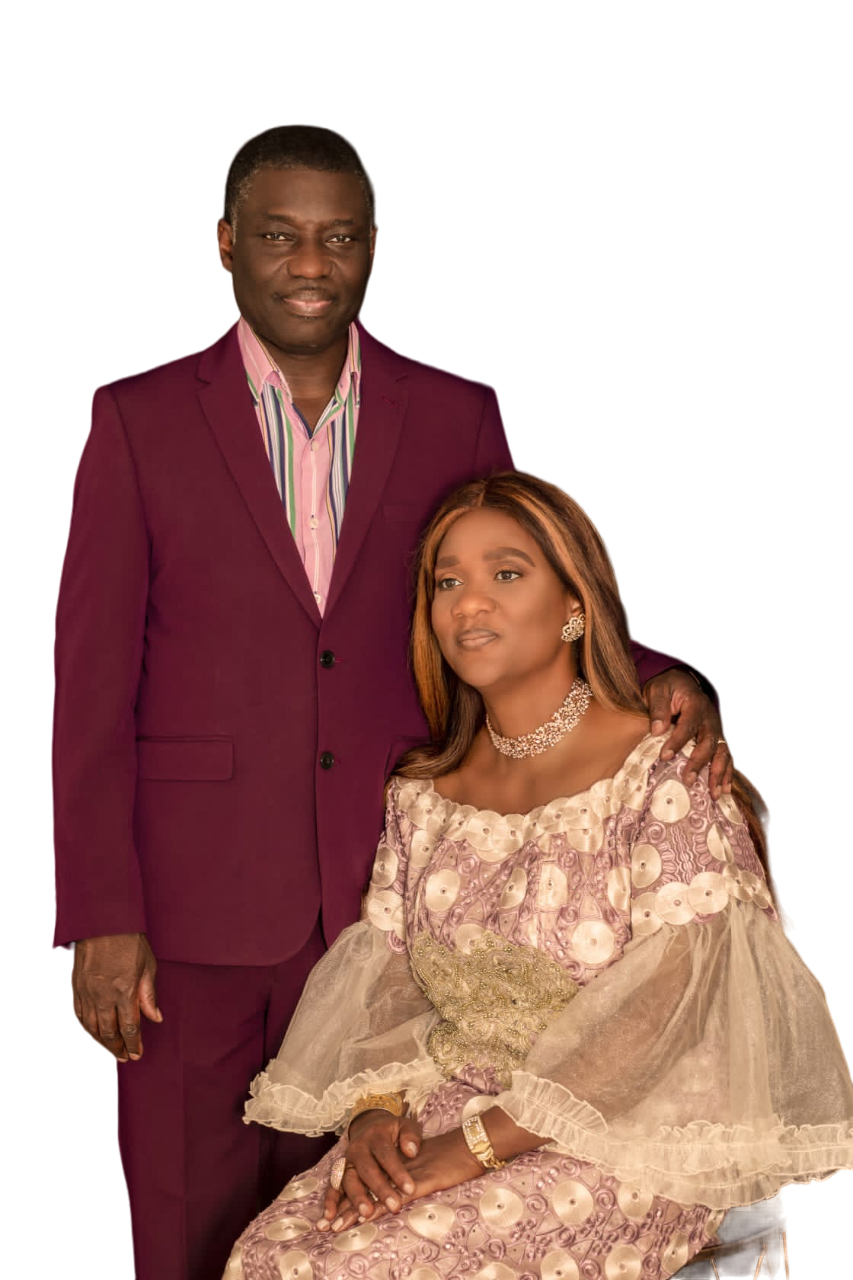
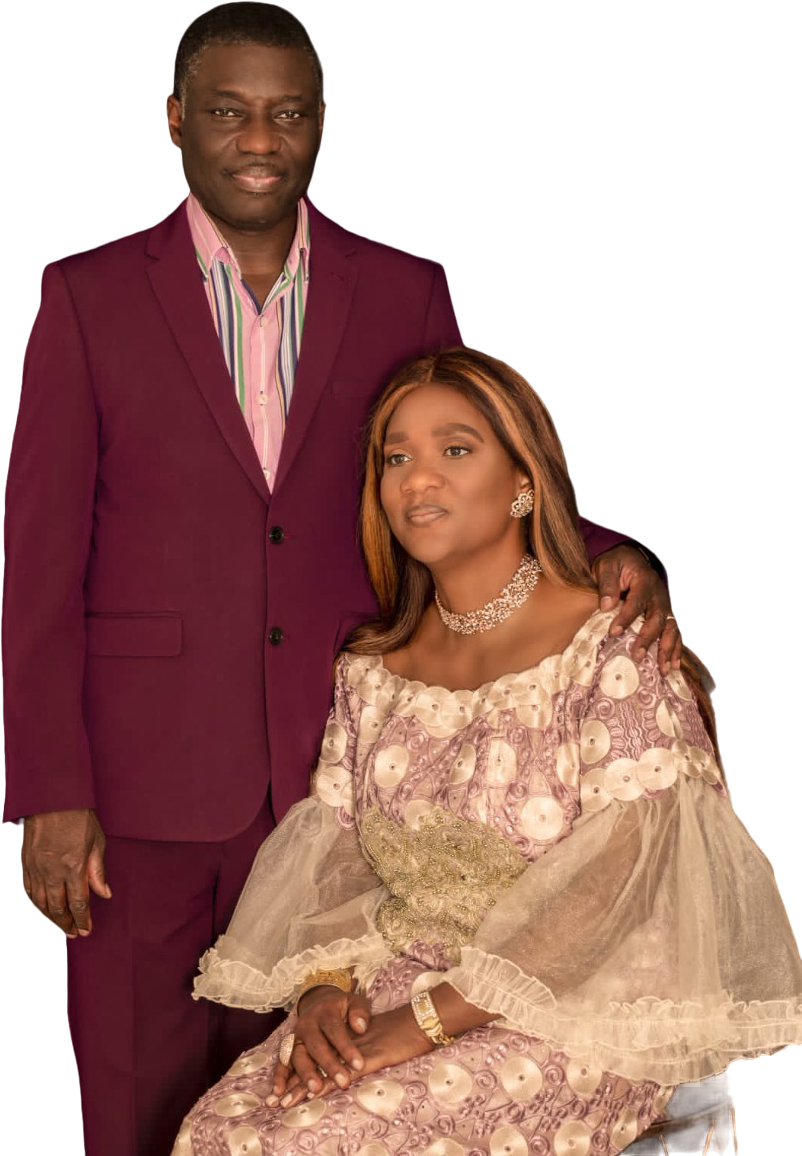
about hoh page updatef

diff --git a/client/src/pages/about_hoh/About_HOH.jsx b/client/src/pages/about_hoh/About_HOH.jsx
@@ -3,7 +3,7 @@ import "./About_HOH.css";
 import { Link } from "react-router-dom";
 import { useEffect } from "react";
 import AOS from "aos";
-// import kmmm3 from "../../assets/images/alexdocas22.png";
+import kmmm33 from "../../assets/images/alexdocas222.png";
 // import kmmm33 from "../../assets/images/alexdocasbg.png";
 import ScrollToTop from "../../components/ScrollToTop/ScrollTopTop";
 
@@ -193,27 +193,61 @@ const About_HOH = () => {
           <div className="values">
             <div className="values-showcase">
               <div className="values-text-case container">
-                <div className="values-tt1 focus-in-contract-bck">
-                 
-                    {/* OUR HISTORY */}
-                    Welcome message from the pastor and his wife
+                
+
+                {/* docas & alex */}
+                
+                <div className="alex-docas">
+                  
+                  <div className="values-tt1">
+                    Welcome address from Pastor Alex and Pastor Dorcas
+                  </div>
+                  
+                  <div className="ps-alex-wrapper">
+          <div className="ps-alex-show">
+            <div className="ps-alex-case">
+              <div className="ps-left">
+                <div
+                  className="psl-pic"
+                  data-aos="fade-right"
+                  data-aos-anchor-placement="center-bottom"
+                  data-aos-delay="600"
+                >
+                  <img src={kmmm33} alt="" />
                 </div>
+              </div>
+
+              <div
+                className="ps-right"
+                data-aos="fade-left"
+                data-aos-anchor-placement="center-bottom"
+                data-aos-delay="600"
+              >
+                {/* <div className="psr1">
+                  Welcome address from Pastor Alex and Pastor Dorcas
+                </div> */}
 
                 <div className="psr2">
 
                     We warmly welcome you to Highway of Holiness Church, a place of faith, fellowship and freedom in Christ.  Here at HOH everything we do is centred on the living word of God, the Holy Bible.We believe that the answers to life’ s questions are found within the pages of God’ s holy word. This is the source we stand on to teach, equip and edify God’ s children.  Our desire is to demonstrate how you can live a purposeful life in Christ, being fruitful in your gifts and bringing others to His Kingdom. As believers in Christ we are here on earth to be ambassadors of God’ s Kingdom and we do this by demonstrating Gods love to the world.
                 </div>
+
+                {/* <div className="psr3">
+                  <Link to="/" className="links linkAnima">
+                    CONTACT <span className="arrow"></span>
+                  </Link>
+                </div> */}
                 
+              </div>
+            </div>
+          </div>
+        </div>
+                    
+                </div>
                   
-                  {/* pastor pic  */}
-
-                  {/* <div className="ps-picc">
-                    <div>
-                      <img src={kmmm33} alt="" />
-                    </div>
-                  </div> */}
-
-                  {/* pastor pic end */}
+                {/* docas & alex end */}
+                
+          
 
 
                 {/* <div className="psr3">

diff --git a/client/src/pages/about_hoh/About_HOH.css b/client/src/pages/about_hoh/About_HOH.css
@@ -179,7 +179,7 @@
 .values-showcase {
     background: url('../../assets/images/nnav.jpg') no-repeat center center/cover;
     background-attachment: fixed;
-    padding: 7rem 0;
+    padding: 5rem 0;
 }
 
 .values-text-case {
@@ -191,9 +191,10 @@
 
 .values-tt1 {
     color: #fff;
-    font-size: var(--head_font);
+    font-size: 2.5rem;
+    text-align: center;
     font-weight: 600;
-    margin-bottom: 1.5rem;
+    /* margin-bottom: 1.5rem; */
     text-transform: capitalize;
 }
 
@@ -246,7 +247,7 @@
     font-size: 1.1rem;
 }
 .values-text-case .values-tt1 {
-    font-size: 1.7rem;
+    font-size: 1.5rem;
     text-align: center;
 }
 .values-text-case .ps-picc img {
@@ -254,6 +255,12 @@
     height: 300px;
     object-fit: cover;
 }
+}
+
+.alex-docas .ps-left .psl-pic img {
+    height: 400px;
+    width: 100%;
+    /* object-fit: cover; */
 }
 
 /* update end */
@@ -573,7 +580,7 @@
     object-fit: contain;
     width: 100%;
     height: 500px;
-    clip-path: polygon(0 0, 100% 0%, 79% 100%, 0% 100%);
+    /* clip-path: polygon(0 0, 100% 0%, 79% 100%, 0% 100%); */
 }
 
 .ps-right {
@@ -647,8 +654,9 @@
 
 @media screen and (max-width: 600px ) {
     .psl-pic img {
-    height: 320px;
-    clip-path: none;
+    height: 360px;
+    width: 100%;
+    object-fit: contain;
 }
 .psr1 {
     font-size: 1.2rem;

diff --git a/client/src/pages/leadership/Leadership.jsx b/client/src/pages/leadership/Leadership.jsx
@@ -2,7 +2,8 @@ import { React } from "react";
 // import { Link } from "react-router-dom";
 import "./Leadership.css";
 // Images
-import l1 from "../../assets/images/pastor-alex.jpg";
+// import l1 from "../../assets/images/pastor-alex.jpg";
+import l1 from "../../assets/images/unnamed.png";
 import l22 from "../../assets/images/pswomen.jpeg";
 import l33 from "../../assets/images/psroll.jpeg";
 import naruto from "../../assets/images/leaders-hoh.jpg";
